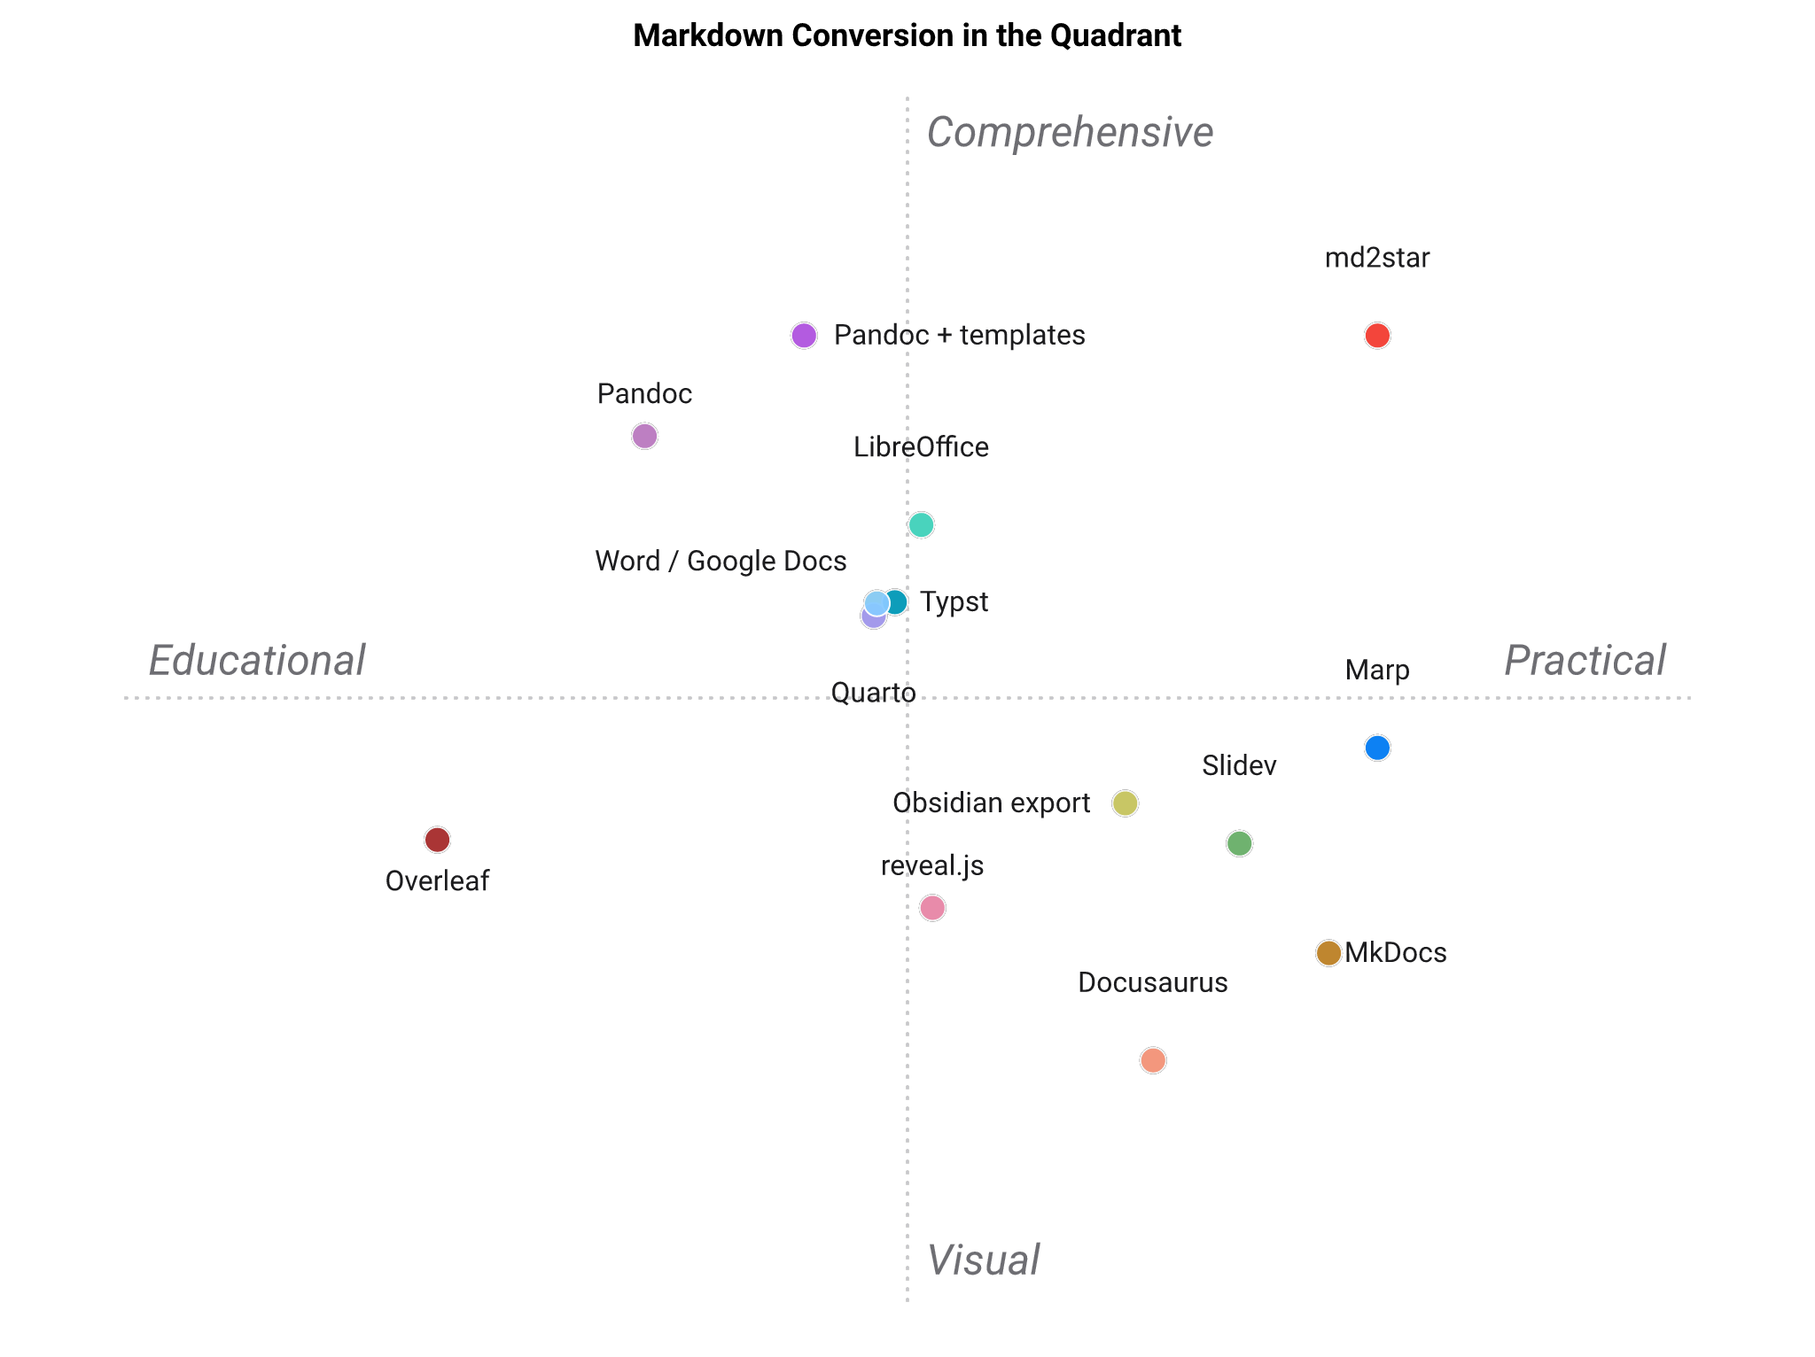
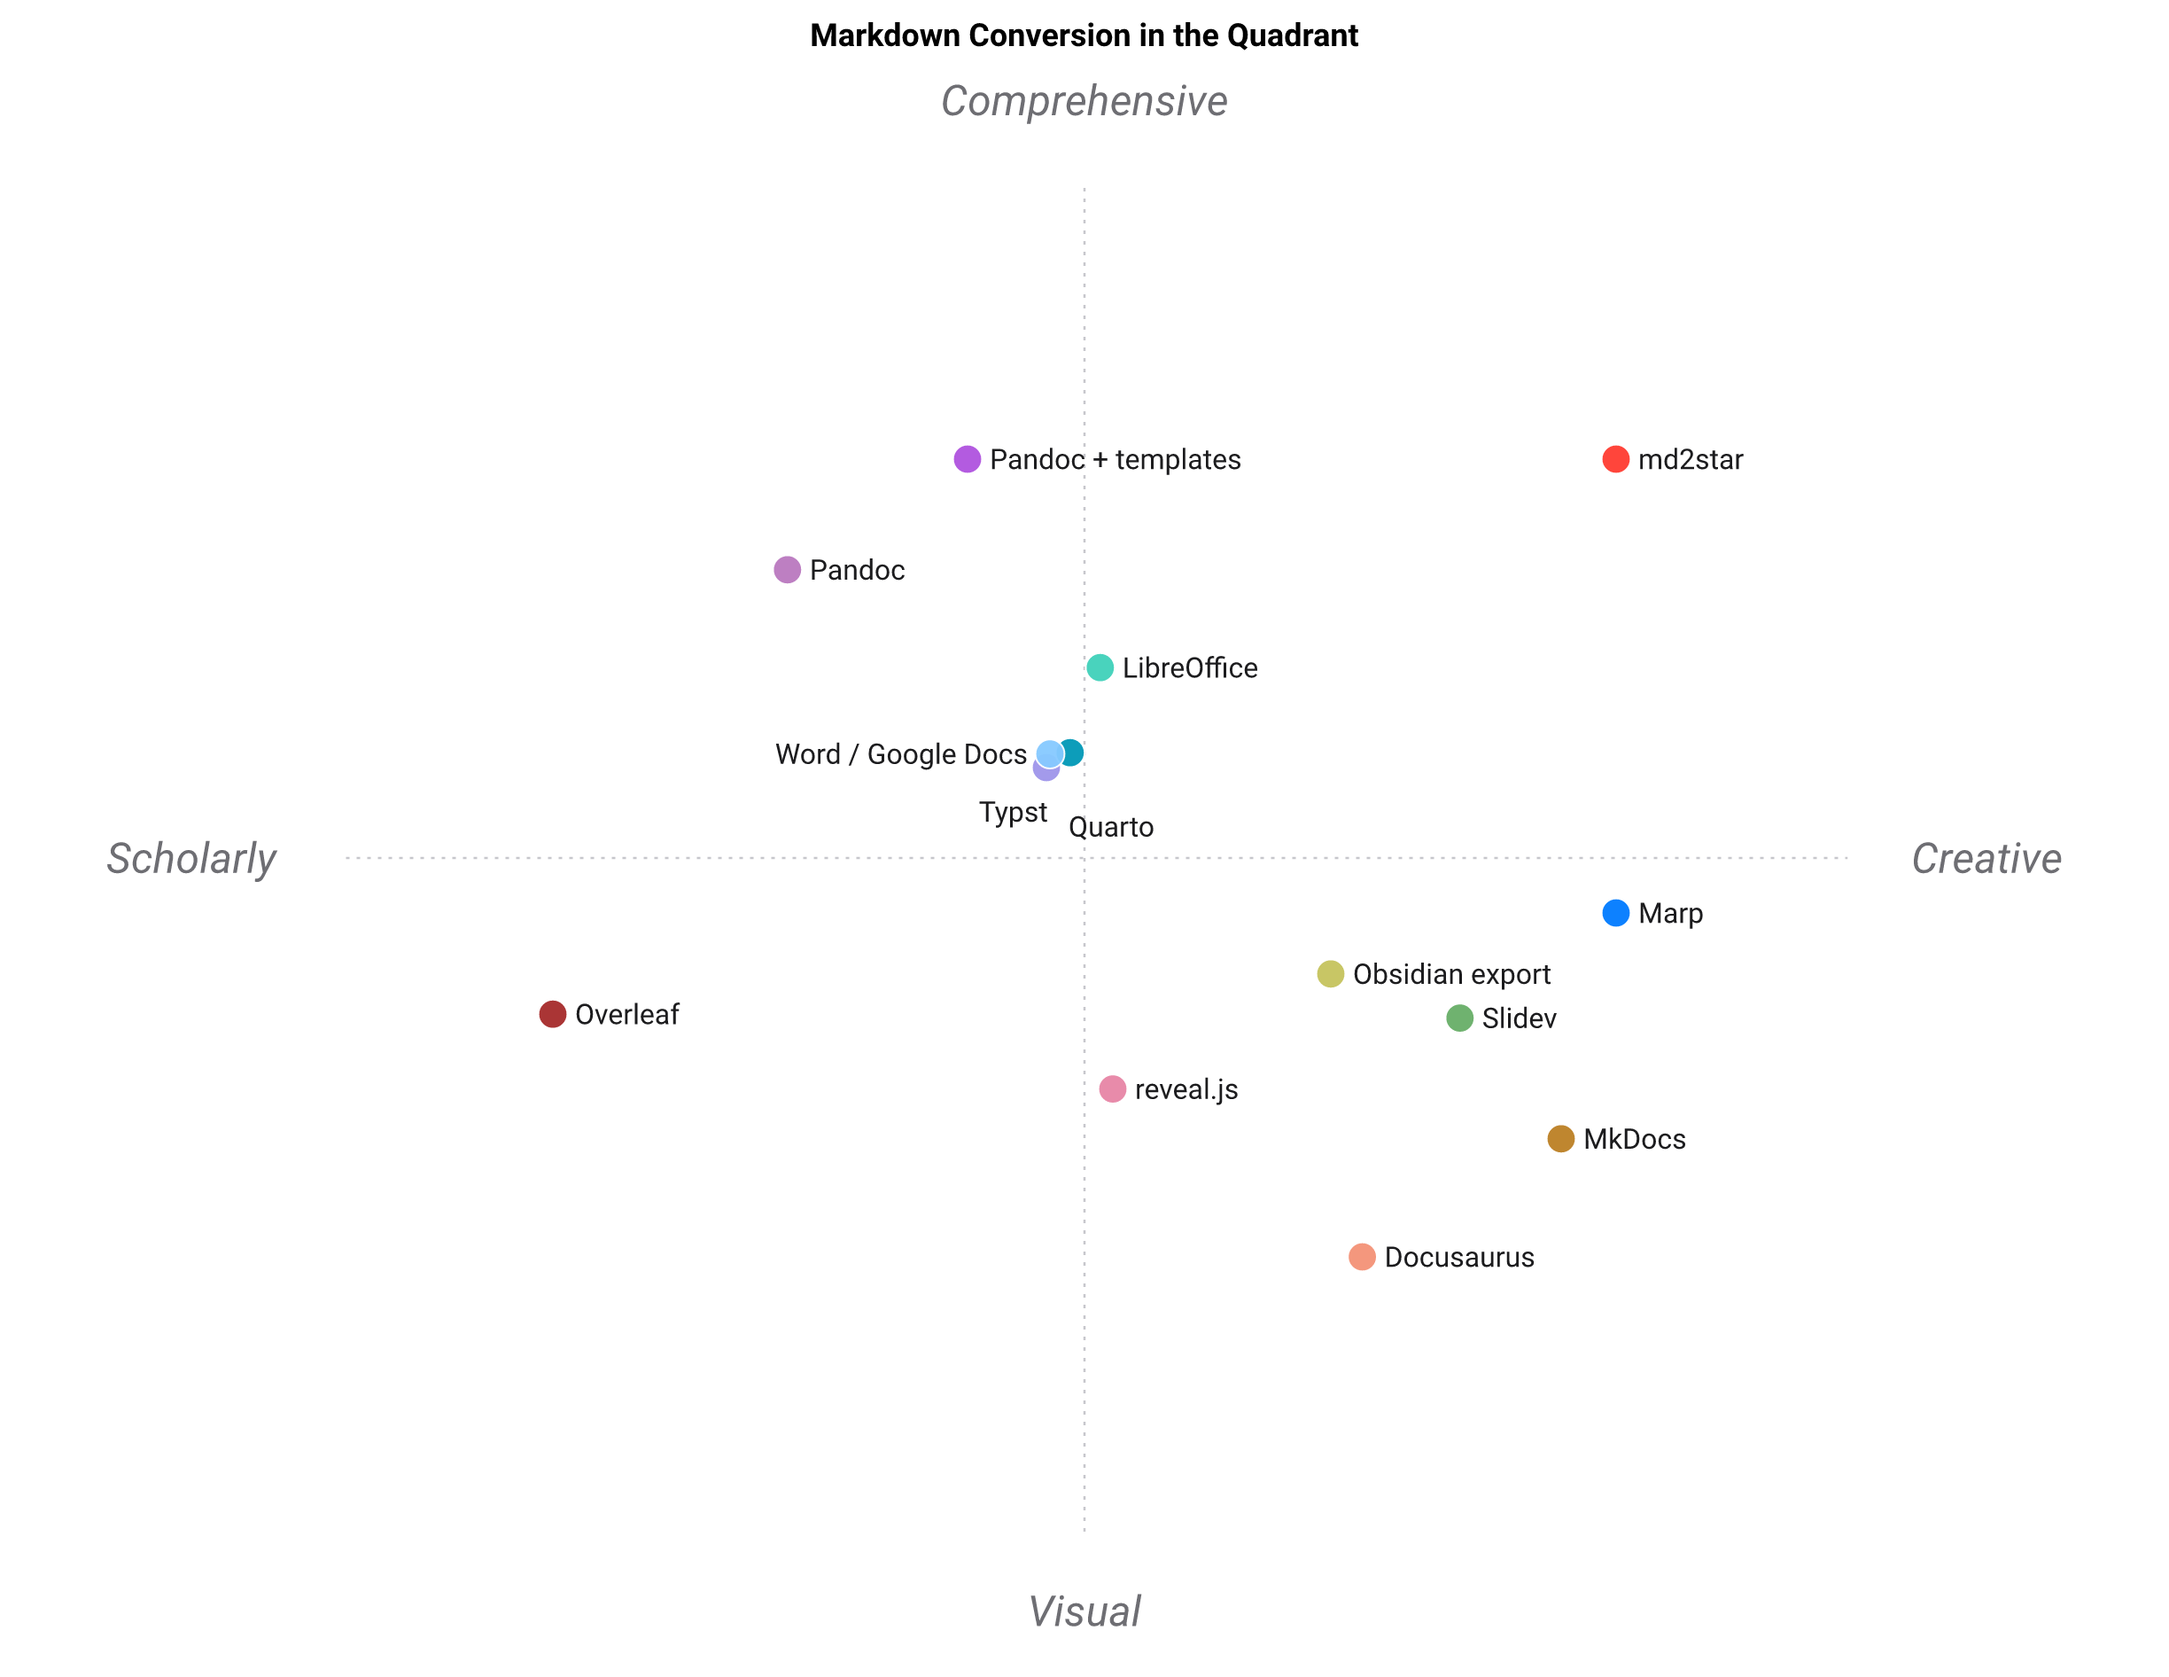
docs: regenerate LANDSCAPE/PAYSAGE positioning figures
Rerun via gen_landscape.py against the current standpoint (Vega retired,
SVG+resvg_py rasterisation pipeline).

diff --git a/PAYSAGE.md b/PAYSAGE.md
@@ -46,7 +46,7 @@ Représentation 2D du tableau ci-dessus.
 
 ![Carte de positionnement](https://raw.githubusercontent.com/warith-harchaoui/md2star/main/assets/paysage.png)
 
-La carte est un résumé en 2D des 9 critères : à lire comme une forme, pas comme un classement. « md2star » se situe dans le coin en haut à droite. Les axes se lisent **Horizontal — Riche en informations ↔ Facile à utiliser** et **Vertical — Précis et structuré ↔ Compréhensif et complet**.
+La carte est un résumé en 2D des 9 critères : à lire comme une forme, pas comme un classement. « md2star » se situe dans le coin en haut à droite. Les axes se lisent **Horizontal — Rigueur ↔ Autonomie** et **Vertical — Clarté ↔ Complétude**.
 <!-- FIGURE:END -->
 
 ## Légende des colonnes

diff --git a/LANDSCAPE.md b/LANDSCAPE.md
@@ -46,7 +46,7 @@ date.
 
 ![Positioning map](https://raw.githubusercontent.com/warith-harchaoui/md2star/main/assets/landscape.png)
 
-The map is a 2-D summary of the nine criteria, so read it as a shape, not a scoreboard. `md2star` is at the top-right corner. The axes read **Horizontal — Educational ↔ Practical** and **Vertical — Visual ↔ Comprehensive**.
+The map is a 2-D summary of the nine criteria, so read it as a shape, not a scoreboard. `md2star` is at the top-right corner. The axes read **Horizontal — Scholarly ↔ Creative** and **Vertical — Visual ↔ Comprehensive**.
 <!-- FIGURE:END -->
 
 ## Column legend
